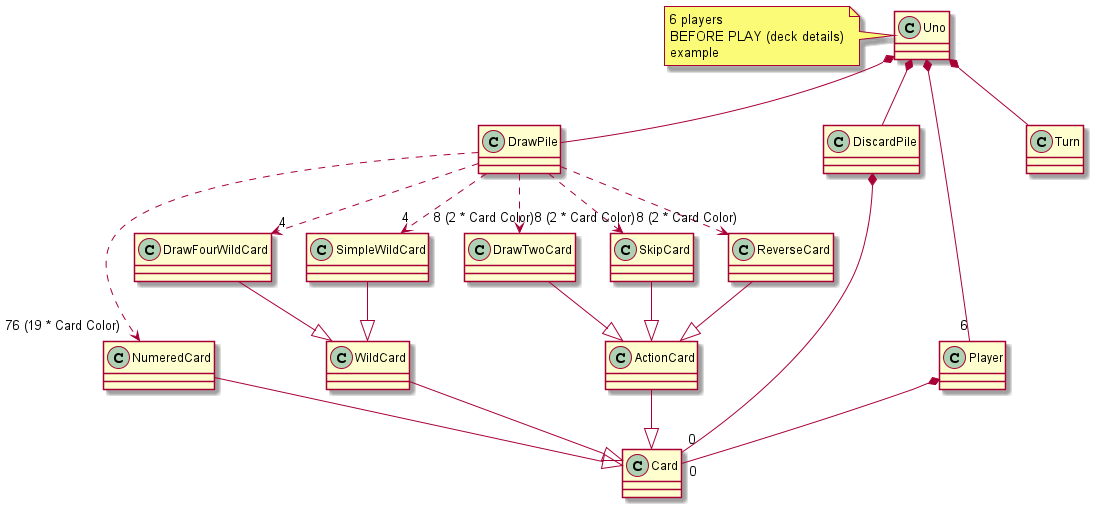
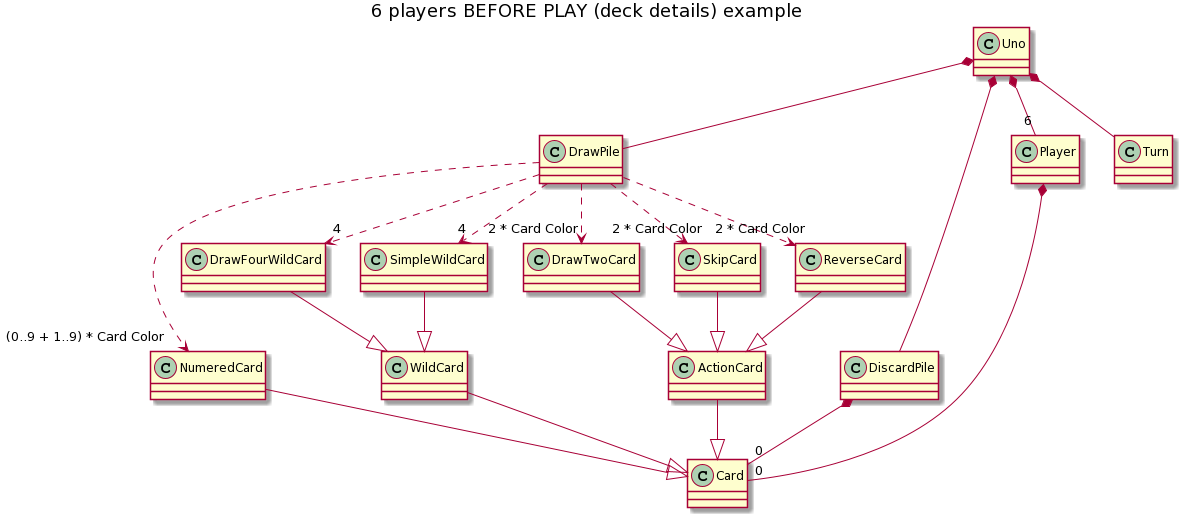
Updating Domain Model

diff --git a/Rules/Links.md b/Rules/Links.md
@@ -1,0 +1,24 @@
+
+# How to play video:
+https://youtu.be/DQzOvL87vss
+
+# Uno rules (used to unify nomenclature): 
+https://www.unorules.com/
+
+# Uno summary diagram:
+https://www.unorules.org/
+
+# Deck
+![](https://www.unorules.org/wp-content/uploads/2021/03/All-Uno-cards-how-many-cards-are-in-a-uno-deck.png)
+
+The 112 Uno cards are divided as follows:
+
+    19 Red cards – 0 to 9
+    19 Blue cards – 0 to 9
+    19 Green cards – 0 to 9
+    19 Yellow cards – 0 to 9
+    8 Skip cards – two cards of each color
+    8 Reverse cards – two cards of each color
+    8 Draw cards – two cards of each color
+    8 Black cards – 4 wild cards and 4 Wild Draw 4 cards
+    4 Blank cards (can be used as replacements cards or as special cards that fit your house rules.) For original Uno, you can put them aside.
